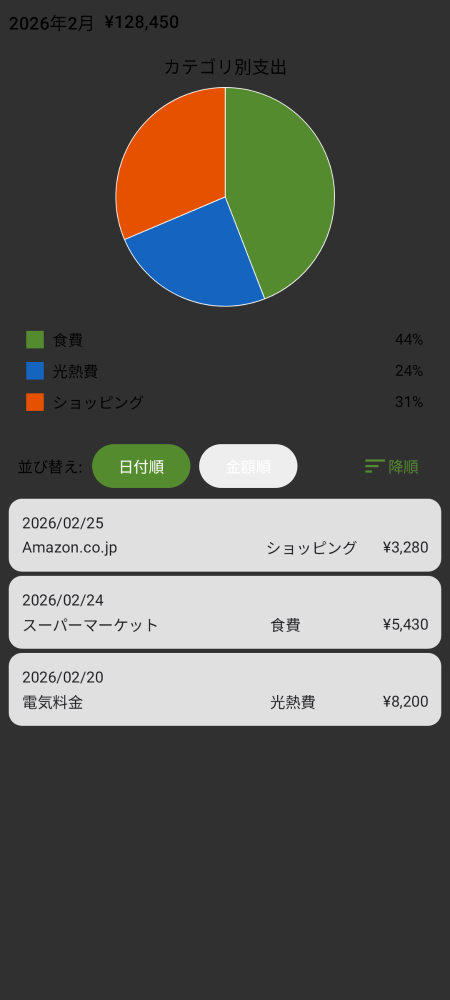
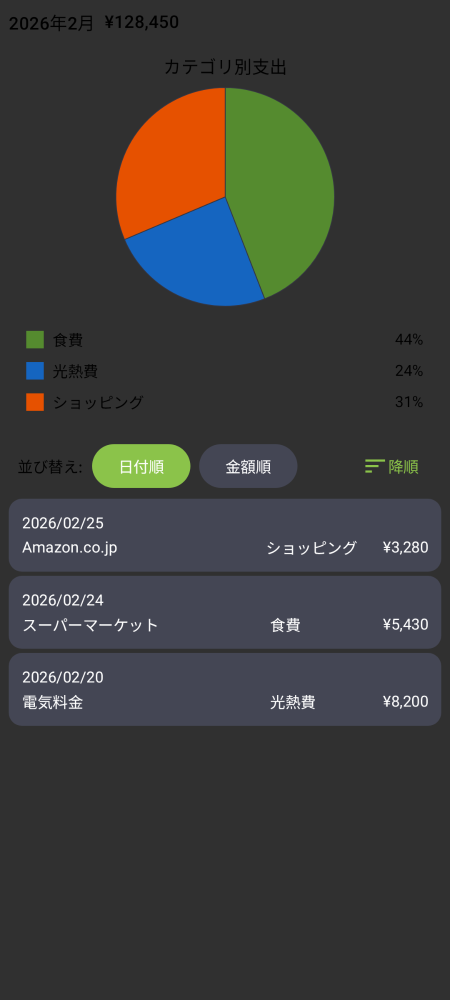
RootHomeMonthlyScreenのプレビューを修正
- ダークテーマ版プレビュー (RootHomeMonthlyScreenDarkPreview) を追加
- README のスクリーンショットをダークテーマ版に更新
- SettingScreen と同様にAppRootラッパーで正しくカラーテーマを適用

https://claude.ai/code/session_01RLbu169GY5HnchGsG2ddUN

diff --git a/frontend/common/ui/src/commonMain/kotlin/net/matsudamper/money/frontend/common/ui/screen/root/home/monthly/RootHomeMonthlyScreen.kt b/frontend/common/ui/src/commonMain/kotlin/net/matsudamper/money/frontend/common/ui/screen/root/home/monthly/RootHomeMonthlyScreen.kt
@@ -247,10 +247,21 @@ private fun LoadedContent(
 @Composable
 @Preview
 private fun RootHomeMonthlyScreenPreview() {
+    RootHomeMonthlyScreenPreviewContent(isDarkTheme = false)
+}
+
+@Composable
+@Preview
+private fun RootHomeMonthlyScreenDarkPreview() {
+    RootHomeMonthlyScreenPreviewContent(isDarkTheme = true)
+}
+
+@Composable
+private fun RootHomeMonthlyScreenPreviewContent(isDarkTheme: Boolean) {
     val noOpItemEvent = object : RootHomeMonthlyScreenUiState.ItemEvent {
         override fun onClick() {}
     }
-    AppRoot(isDarkTheme = false) {
+    AppRoot(isDarkTheme = isDarkTheme) {
         RootHomeMonthlyScreen(
             modifier = Modifier.fillMaxSize(),
             uiState = RootHomeMonthlyScreenUiState(
